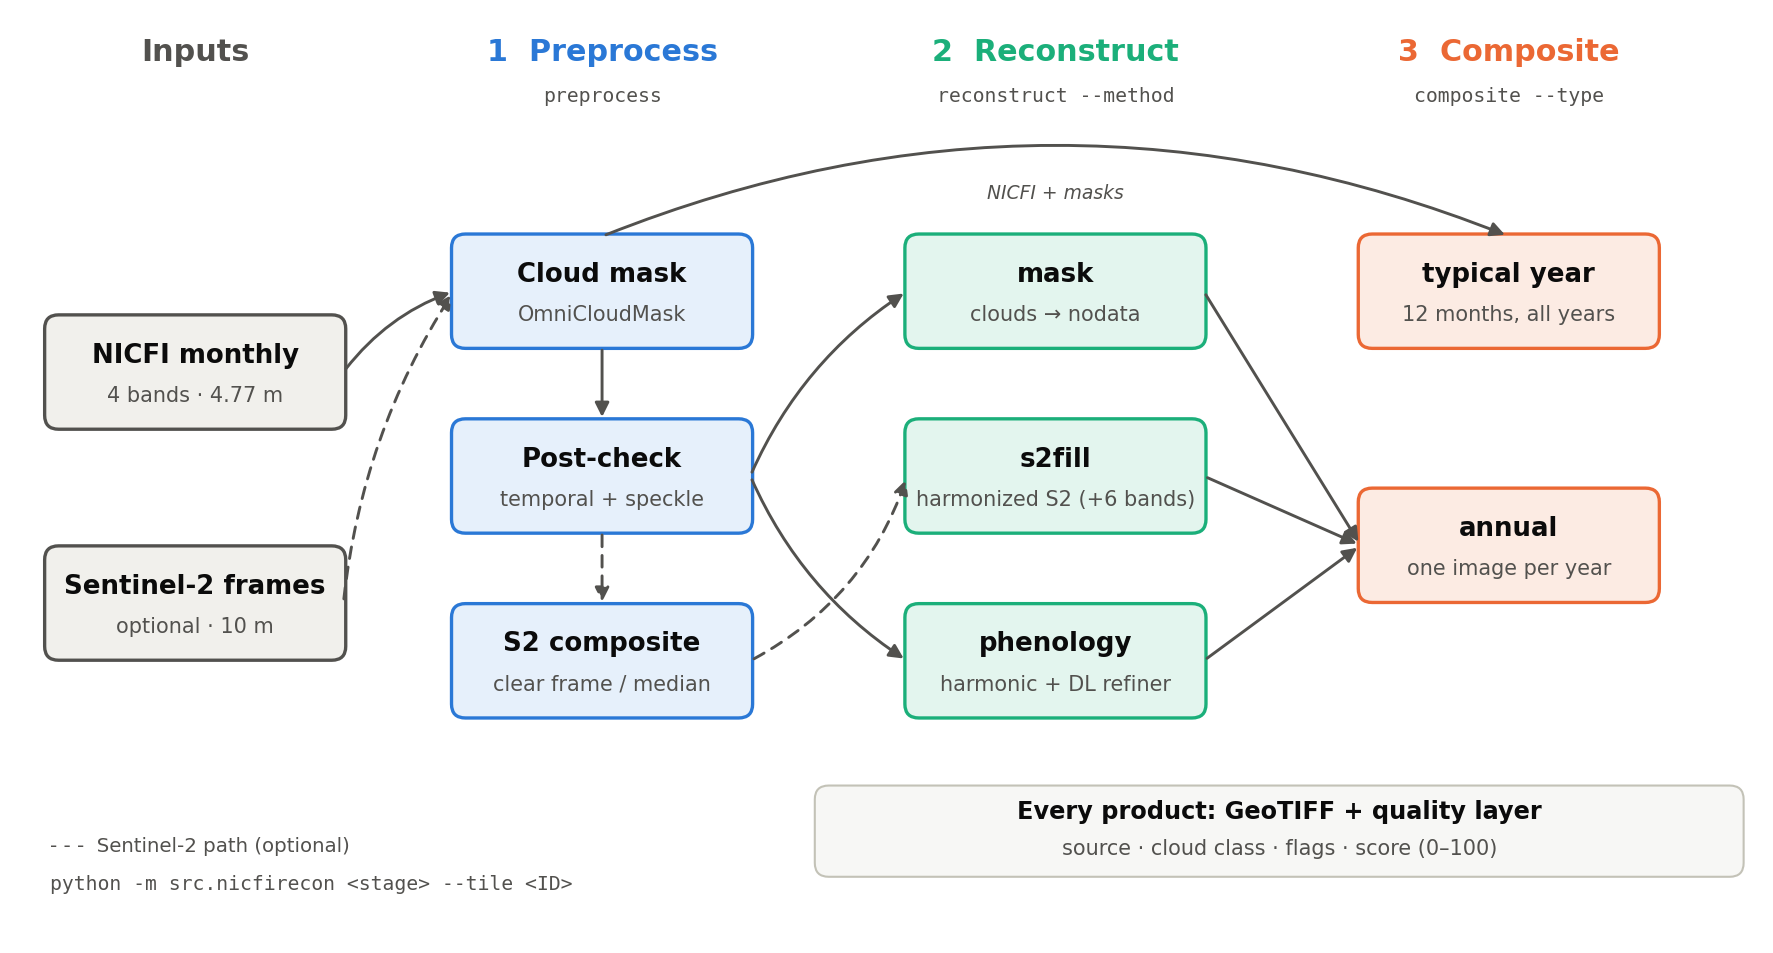
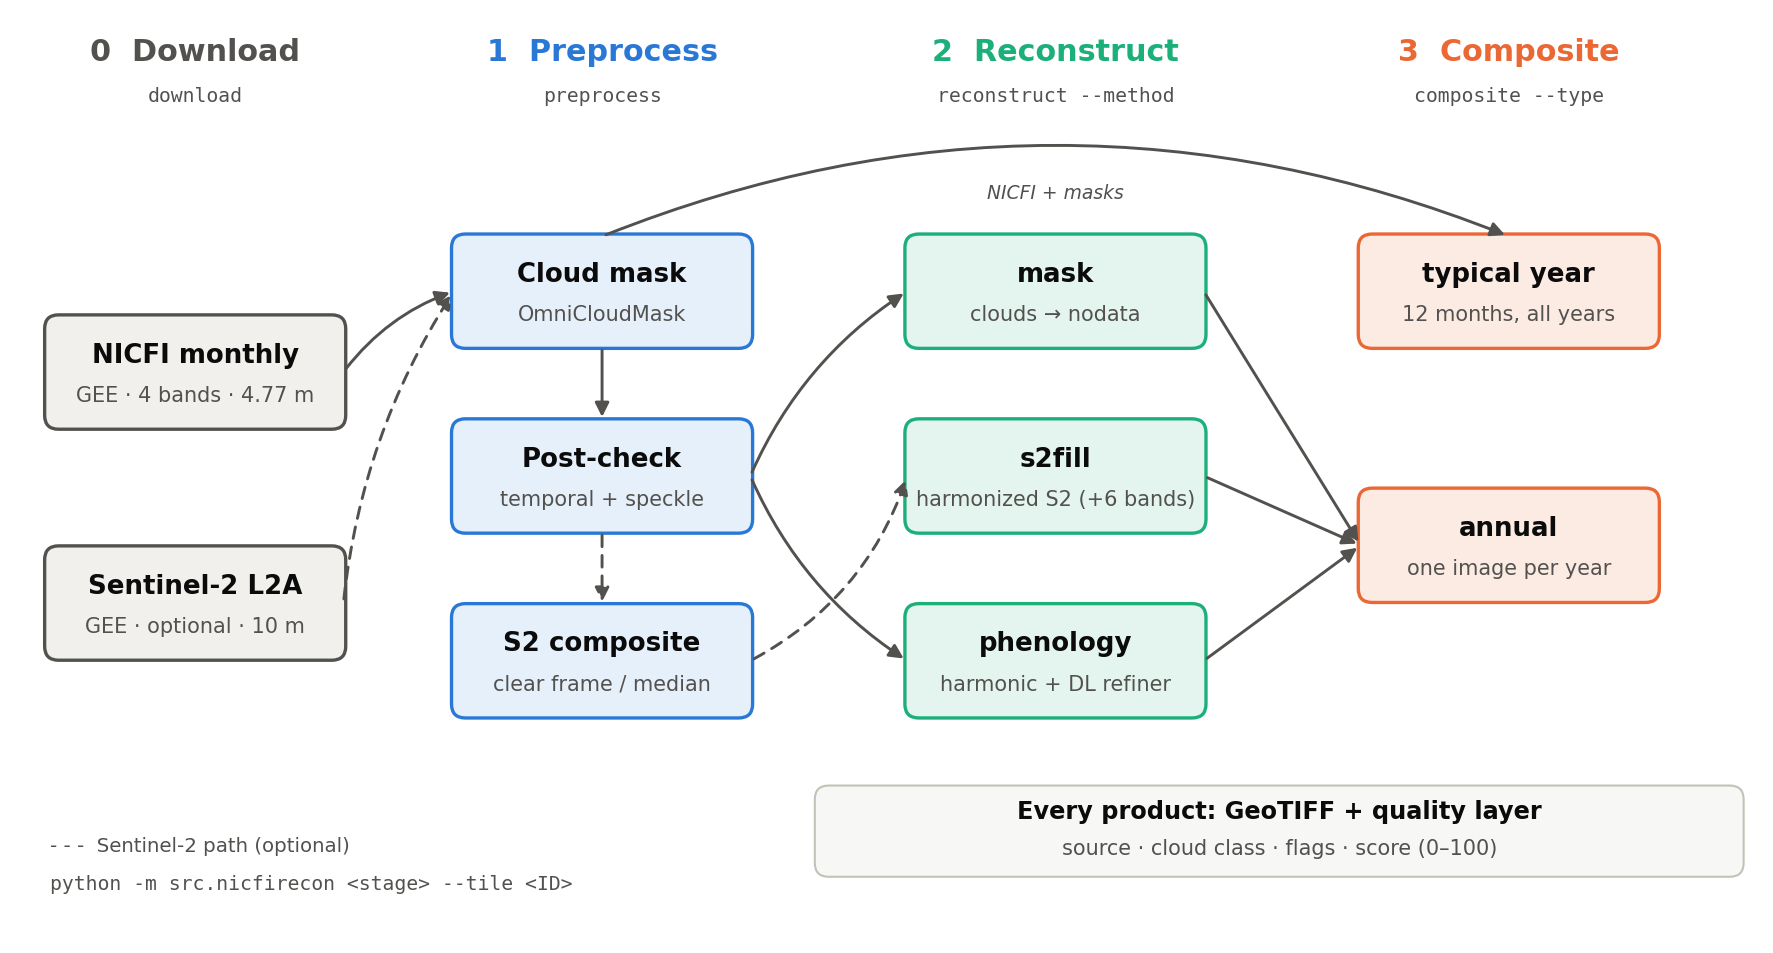
Add download stage: NICFI + raw Sentinel-2 from Earth Engine
- src/nicfirecon/download.py, `python -m src.nicfirecon download` and a
  `download:` section in run configs: NICFI monthly basemaps on the native
  4.77 m EPSG:3857 grid (region from AOI longitude) and raw unmasked
  S2_SR_HARMONIZED frames (~10 m EPSG:4326), AOI from --bbox or a polygon
  file, written in the layout the pipeline reads; chunked, parallel,
  resumable (adapted from nicfi_download.py)
- Output grids checked offline against D17's files; not yet run against GEE
- Flowchart and docs updated with stage 0

diff --git a/src/nicfirecon/download.py b/src/nicfirecon/download.py
@@ -1,0 +1,238 @@
+"""
+Stage 0, "download": fetch a tile's inputs from Google Earth Engine, in
+exactly the layout the rest of the pipeline reads (`config.py`):
+
+    <data-root>/<TILE>/<TILE>_YYYY-MM.tif   NICFI monthly basemap, 4 bands B,G,R,N
+    <data-root>/<TILE>_S2/YYYY-MM-DD.tif    raw Sentinel-2 L2A frames (optional)
+
+- NICFI: `projects/planet-nicfi/assets/basemaps/{americas,africa,asia}` (the
+  region is picked from the AOI's longitude unless given), one mosaic per
+  month, on NICFI's native grid -- EPSG:3857 at 4.777 m, snapped to the
+  global basemap grid -- so nothing is resampled.
+- Sentinel-2: `COPERNICUS/S2_SR_HARMONIZED` (no +1000 offset), every
+  acquisition day intersecting the AOI, same-day granules mosaicked, bands
+  B2..B12 (10 bands) as uint16 on an EPSG:4326 grid of 0.0000898 deg
+  (~10 m), *unmasked* -- the pipeline does its own cloud masking.
+
+Core download logic adapted from /mnt/super/code/nicfi_download.py (chunked,
+parallel `getDownloadURL` with retries, merge, skip what's already on
+disk). Differences: chunks are pixel blocks on the exact output grid (fixed
+`crs_transform` + dimensions), so the merge is a plain array copy; outputs
+are named for the pipeline; masked pixels are written as 0 (= nodata).
+
+Needs an authenticated Earth Engine account: run `earthengine authenticate`
+once, and pass `--ee-project <cloud project>`.
+"""
+import json
+import time
+from concurrent.futures import ThreadPoolExecutor, as_completed
+from pathlib import Path
+from typing import List, Optional, Sequence, Tuple
+
+import numpy as np
+import rasterio
+import requests
+from rasterio.transform import Affine
+from rasterio.warp import transform_bounds
+
+from . import config as cfg
+
+NICFI_COLLECTION = "projects/planet-nicfi/assets/basemaps/{region}"
+NICFI_BANDS = ["B", "G", "R", "N"]
+NICFI_CRS = "EPSG:3857"
+NICFI_RES = 4.777314267159966          # native basemap pixel size, m
+WEB_MERCATOR_ORIGIN = -20037508.342789244
+
+S2_COLLECTION = "COPERNICUS/S2_SR_HARMONIZED"
+S2_BANDS = ["B2", "B3", "B4", "B5", "B6", "B7", "B8", "B8A", "B11", "B12"]
+S2_CRS = "EPSG:4326"
+S2_RES = 0.000089831528412             # deg, = 10 m at the equator
+
+CHUNK_PX = 1024                        # 1024^2 x 10 bands x 2 B = 21 MB < GEE's 32 MB limit
+MAX_WORKERS = 8
+MAX_RETRIES = 3
+
+
+def init_ee(project: Optional[str]):
+    import ee
+    try:
+        ee.Initialize(project=project) if project else ee.Initialize()
+    except Exception as exc:
+        raise RuntimeError(f"Earth Engine init failed ({exc}). Run `earthengine authenticate` "
+                           "once and pass --ee-project <your cloud project>.") from exc
+    return ee
+
+
+# ------------------------------------------------------------------- AOI
+def aoi_bounds(bbox: Optional[Sequence[float]] = None, aoi: Optional[Path] = None,
+               aoi_id_field: Optional[str] = None, aoi_id=None) -> Tuple[float, float, float, float]:
+    """(min_lon, min_lat, max_lon, max_lat) from --bbox, or from a polygon
+    file (one feature, or the one whose `aoi_id_field` == `aoi_id`)."""
+    if bbox:
+        return tuple(float(v) for v in bbox)
+    if aoi is None:
+        raise ValueError("give --bbox MIN_LON MIN_LAT MAX_LON MAX_LAT or --aoi FILE")
+    import geopandas as gpd
+    gdf = gpd.read_file(aoi).to_crs("EPSG:4326")
+    if aoi_id_field:
+        gdf = gdf[gdf[aoi_id_field].astype(str) == str(aoi_id)]
+    if len(gdf) != 1:
+        raise ValueError(f"{aoi}: expected exactly one AOI feature, found {len(gdf)} "
+                         f"(use --aoi-id-field to pick one; the value is the tile ID)")
+    return tuple(gdf.geometry.iloc[0].bounds)
+
+
+def nicfi_region(bounds) -> str:
+    lon = (bounds[0] + bounds[2]) / 2
+    return "americas" if lon < -30 else "africa" if lon < 60 else "asia"
+
+
+def snapped_grid(bounds_lonlat, crs: str, res: float, origin_x=0.0, origin_y=0.0):
+    """(Affine, width, height) of a north-up grid with pixel size `res`
+    covering the AOI, its corners snapped to multiples of `res` from the
+    given origin (the global grid the source data lives on)."""
+    x0, y0, x1, y1 = (transform_bounds("EPSG:4326", crs, *bounds_lonlat) if crs != "EPSG:4326"
+                      else bounds_lonlat)
+    eps = 1e-6  # px; an AOI edge exactly on a pixel boundary must not round outward
+    c0 = np.floor((x0 - origin_x) / res + eps)
+    c1 = np.ceil((x1 - origin_x) / res - eps)
+    r0 = np.floor((origin_y - y1) / res + eps)   # rows count down from the origin
+    r1 = np.ceil((origin_y - y0) / res - eps)
+    transform = Affine(res, 0, origin_x + c0 * res, 0, -res, origin_y - r0 * res)
+    return transform, int(c1 - c0), int(r1 - r0)
+
+
+def nicfi_grid(bounds):
+    return snapped_grid(bounds, NICFI_CRS, NICFI_RES, WEB_MERCATOR_ORIGIN, -WEB_MERCATOR_ORIGIN)
+
+
+def s2_grid(bounds):
+    return snapped_grid(bounds, S2_CRS, S2_RES)
+
+
+# ------------------------------------------------------------- download core
+def _fetch(image, crs, chunk_tr, w, h, n_retries=MAX_RETRIES) -> np.ndarray:
+    params = {"crs": crs, "crs_transform": list(chunk_tr)[:6], "dimensions": f"{w}x{h}",
+              "format": "GEO_TIFF", "filePerBand": False}
+    for attempt in range(1, n_retries + 2):
+        if attempt > 1:
+            time.sleep(min(60, 10 * (attempt - 1)))
+        try:
+            url = image.getDownloadURL(params)
+            resp = requests.get(url, timeout=300)
+        except Exception as exc:  # GEE or network error: retry
+            last = exc
+            continue
+        if resp.ok:
+            with rasterio.MemoryFile(resp.content) as mf, mf.open() as src:
+                return src.read()
+        last = f"HTTP {resp.status_code}: {resp.content[:200]!r}"
+        if resp.status_code in {401, 403, 404}:
+            break
+    raise RuntimeError(f"chunk failed after {attempt} attempts: {last}")
+
+
+def download_image(image, crs: str, transform: Affine, width: int, height: int,
+                   out_path: Path, band_names: List[str], dtype="uint16", workers=MAX_WORKERS):
+    """Download `image` onto the exact grid (crs, transform, width, height)
+    in CHUNK_PX blocks, in parallel, and write one tiled GeoTIFF."""
+    out = np.zeros((len(band_names), height, width), dtype=dtype)
+    blocks = [(r, c, min(CHUNK_PX, height - r), min(CHUNK_PX, width - c))
+              for r in range(0, height, CHUNK_PX) for c in range(0, width, CHUNK_PX)]
+
+    def job(b):
+        r, c, h, w = b
+        return b, _fetch(image, crs, transform * Affine.translation(c, r), w, h)
+
+    with ThreadPoolExecutor(max_workers=workers) as ex:
+        for fut in as_completed([ex.submit(job, b) for b in blocks]):
+            (r, c, h, w), arr = fut.result()
+            out[:, r:r + h, c:c + w] = arr[:, :h, :w]
+    out_path.parent.mkdir(parents=True, exist_ok=True)
+    tmp = out_path.with_suffix(".part.tif")
+    with rasterio.open(tmp, "w", driver="GTiff", height=height, width=width, count=len(band_names),
+                       dtype=dtype, crs=crs, transform=transform, compress="deflate", tiled=True,
+                       blockxsize=256, blockysize=256) as dst:
+        dst.write(out)
+        dst.descriptions = tuple(band_names)
+    tmp.rename(out_path)   # only complete files ever carry the final name
+
+
+# ------------------------------------------------------------------ sensors
+def _month_range(start: str, end: str) -> List[str]:
+    y, m = map(int, start.split("-"))
+    ye, me = map(int, end.split("-"))
+    out = []
+    while (y, m) <= (ye, me):
+        out.append(f"{y}-{m:02d}")
+        y, m = (y + 1, 1) if m == 12 else (y, m + 1)
+    return out
+
+
+def _next_month(month: str) -> str:
+    y, m = map(int, month.split("-"))
+    return f"{y + 1}-01" if m == 12 else f"{y}-{m + 1:02d}"
+
+
+def run_download_nicfi(ee, tile: cfg.Tile, bounds, start: str, end: str,
+                       region: Optional[str] = None, log=print):
+    region = region or nicfi_region(bounds)
+    col = ee.ImageCollection(NICFI_COLLECTION.format(region=region))
+    transform, width, height = nicfi_grid(bounds)
+    log(f"  NICFI ({region}): {width}x{height} px at {NICFI_RES:.2f} m -> {tile.nicfi_dir}")
+    n_new = n_skip = n_missing = 0
+    for month in _month_range(start, end):
+        out = tile.nicfi_dir / f"{tile.tile_id}_{month}.tif"
+        if out.exists():
+            n_skip += 1
+            continue
+        monthly = col.filterDate(f"{month}-01", f"{_next_month(month)}-01")
+        if monthly.size().getInfo() == 0:
+            n_missing += 1
+            log(f"    {month}: no NICFI mosaic on GEE (pre-2020-09 basemaps are biannual)")
+            continue
+        image = monthly.mosaic().select(NICFI_BANDS).unmask(0).toUint16()
+        download_image(image, NICFI_CRS, transform, width, height, out, NICFI_BANDS)
+        n_new += 1
+        log(f"    {month}: downloaded")
+    log(f"  NICFI: {n_new} downloaded, {n_skip} already on disk, {n_missing} not available")
+
+
+def run_download_s2(ee, tile: cfg.Tile, bounds, start: str, end: str,
+                    max_cloud: float = 100.0, log=print):
+    rect = ee.Geometry.Rectangle(list(bounds), "EPSG:4326", False)
+    col = (ee.ImageCollection(S2_COLLECTION).filterBounds(rect)
+           .filterDate(f"{start}-01", f"{_next_month(end)}-01"))
+    if max_cloud < 100:
+        col = col.filter(ee.Filter.lte("CLOUDY_PIXEL_PERCENTAGE", max_cloud))
+    days = sorted(set(col.aggregate_array("system:time_start")
+                      .map(lambda t: ee.Date(t).format("YYYY-MM-dd")).getInfo()))
+    transform, width, height = s2_grid(bounds)
+    log(f"  Sentinel-2: {len(days)} acquisition days, {width}x{height} px at ~10 m -> {tile.s2_dir}")
+    n_new = 0
+    for day in days:
+        out = tile.s2_dir / f"{day}.tif"
+        if out.exists():
+            continue
+        d = ee.Date(day)
+        image = (col.filterDate(d, d.advance(1, "day")).mosaic().select(S2_BANDS)
+                 .unmask(0).toUint16())
+        download_image(image, S2_CRS, transform, width, height, out, S2_BANDS)
+        n_new += 1
+        if n_new % 20 == 0:
+            log(f"    {n_new} frames downloaded (latest {day})")
+    log(f"  Sentinel-2: {n_new} downloaded, {len(days) - n_new} already on disk")
+
+
+def run_download(tile: cfg.Tile, start: str, end: str, sensors=("nicfi", "s2"),
+                 bbox=None, aoi=None, aoi_id_field=None, ee_project=None, nicfi_region_name=None,
+                 s2_max_cloud: float = 100.0, log=print):
+    bounds = aoi_bounds(bbox, aoi, aoi_id_field, tile.tile_id)
+    log(f"  AOI (lon/lat): {', '.join(f'{v:.5f}' for v in bounds)}")
+    ee = init_ee(ee_project)
+    if "nicfi" in sensors:
+        run_download_nicfi(ee, tile, bounds, start, end, nicfi_region_name, log)
+    if "s2" in sensors:
+        run_download_s2(ee, tile, bounds, start, end, s2_max_cloud, log)
+    (tile.cache_dir / "download.json").write_text(json.dumps(
+        {"bounds_lonlat": bounds, "start": start, "end": end, "sensors": list(sensors)}, indent=1))

diff --git a/src/nicfirecon/cli.py b/src/nicfirecon/cli.py
@@ -8,6 +8,9 @@ Command line for the NICFI reconstruction pipeline. Run from the repo root:
 
 Stages (each writes its QA figures unless --no-figures):
 
+download     NICFI monthly basemaps (+ optional raw Sentinel-2 frames) from
+             Google Earth Engine for an AOI (--bbox or --aoi file), into the
+             layout every later stage reads (needs `earthengine authenticate`)
 preprocess   --steps mask,postcheck,s2composite (default: all)
              mask         OmniCloudMask ensemble per observation (GPU)
              postcheck    temporal (persistent "cloud" that looks the same
@@ -26,11 +29,18 @@ import sys
 import time
 from pathlib import Path
 
-from . import composite, config as cfg, masking, postcheck, reconstruct, s2, viz
+from . import composite, config as cfg, download, masking, postcheck, reconstruct, s2, viz
 
 
 def _log(msg):
     print(f"[{time.strftime('%H:%M:%S')}] {msg}", flush=True)
+
+
+def do_download(tile, start, end, sensors=("nicfi", "s2"), bbox=None, aoi=None, aoi_id_field=None,
+                ee_project=None, nicfi_region=None, s2_max_cloud=100.0):
+    _log(f"download {start}..{end}: {', '.join(sensors)}")
+    download.run_download(tile, start, end, sensors, bbox, Path(aoi) if aoi else None, aoi_id_field,
+                          ee_project, nicfi_region, s2_max_cloud, _log)
 
 
 def do_preprocess(tile, steps=("mask", "postcheck", "s2composite"), sensors=None, device="cuda",
@@ -86,6 +96,9 @@ def do_run(config_path: Path):
 
         tile: D17
         data_root: /mnt/warehouse/amazon        # optional, like the CLI flags
+        download:                               # optional; skip if data is on disk
+          {start: 2021-01, end: 2025-12, bbox: [-61.36, -10.28, -61.27, -10.19],
+           ee_project: my-project}
         preprocess: {device: cuda}              # or false to skip
         reconstruct:
           - {method: s2fill, add_s2_bands: true}
@@ -103,6 +116,10 @@ def do_run(config_path: Path):
         out_base=Path(c.get("out_base", cfg.PROJECT_DIR / "outputs" / cfg.PIPELINE_NAME)))
     tile = cfg.tile_from_args(tile_args)
     t0 = time.time()
+    if c.get("download"):
+        d = dict(c["download"])
+        d["start"], d["end"] = str(d["start"]), str(d["end"])
+        do_download(tile, **d)
     if c.get("preprocess", {}) is not False:
         do_preprocess(tile, **(c.get("preprocess") or {}))
     for r in c.get("reconstruct", []) or []:
@@ -116,6 +133,19 @@ def main(argv=None):
     ap = argparse.ArgumentParser(prog="python -m src.nicfirecon", description=__doc__,
                                  formatter_class=argparse.RawDescriptionHelpFormatter)
     sub = ap.add_subparsers(dest="cmd", required=True)
+
+    p = cfg.add_tile_args(sub.add_parser("download", help="NICFI (+ Sentinel-2) from Earth Engine"))
+    p.add_argument("--start", required=True, help="first month, YYYY-MM")
+    p.add_argument("--end", required=True, help="last month, YYYY-MM")
+    p.add_argument("--sensors", default="nicfi,s2", help="nicfi,s2 or nicfi")
+    p.add_argument("--bbox", nargs=4, type=float, metavar=("MIN_LON", "MIN_LAT", "MAX_LON", "MAX_LAT"))
+    p.add_argument("--aoi", type=Path, help="polygon file (GeoJSON/shapefile) instead of --bbox")
+    p.add_argument("--aoi-id-field", help="--aoi attribute whose value is the tile ID")
+    p.add_argument("--ee-project", help="Google Cloud project registered for Earth Engine")
+    p.add_argument("--nicfi-region", choices=("americas", "africa", "asia"),
+                   help="NICFI basemap (default: from the AOI's longitude)")
+    p.add_argument("--s2-max-cloud", type=float, default=100.0,
+                   help="skip S2 scenes above this CLOUDY_PIXEL_PERCENTAGE (default: keep all)")
 
     p = cfg.add_tile_args(sub.add_parser("preprocess", help="cloud masks, post-check, S2 composites"))
     p.add_argument("--steps", default="mask,postcheck,s2composite")
@@ -158,9 +188,12 @@ def main(argv=None):
     if a.cmd == "run":
         return do_run(a.config)
     tile = cfg.tile_from_args(a)
+    t0 = time.time()
+    if a.cmd == "download":
+        return do_download(tile, a.start, a.end, a.sensors.split(","), a.bbox, a.aoi, a.aoi_id_field,
+                           a.ee_project, a.nicfi_region, a.s2_max_cloud)
     _log(f"{tile.tile_id}: {len(tile.months)} NICFI months, "
          f"{len(tile.s2_frames())} S2 frames -> {tile.out_root}")
-    t0 = time.time()
     if a.cmd == "preprocess":
         do_preprocess(tile, a.steps.split(","), a.sensors.split(",") if a.sensors else None,
                       a.device, not a.no_temporal, a.min_cloud_area, a.s2_clear_thresh,

diff --git a/docs/figures/make_flowchart.py b/docs/figures/make_flowchart.py
@@ -51,13 +51,13 @@ B = lambda b: (b[0], b[1] - b[3] / 2)
 
 # columns
 xi, xp, xr, xc = 1.55, 5.05, 8.95, 12.85
-header(xi, None, "Inputs", "", "in")
+header(xi, "0", "Download", "download", "in")
 header(xp, "1", "Preprocess", "preprocess", "pre")
 header(xr, "2", "Reconstruct", "reconstruct --method", "rec")
 header(xc, "3", "Composite", "composite --type", "comp")
 
-nicfi = box(xi, 4.9, "NICFI monthly", "4 bands · 4.77 m", "in")
-sen2 = box(xi, 2.9, "Sentinel-2 frames", "optional · 10 m", "in")
+nicfi = box(xi, 4.9, "NICFI monthly", "GEE · 4 bands · 4.77 m", "in")
+sen2 = box(xi, 2.9, "Sentinel-2 L2A", "GEE · optional · 10 m", "in")
 
 mask = box(xp, 5.6, "Cloud mask", "OmniCloudMask", "pre")
 post = box(xp, 4.0, "Post-check", "temporal + speckle", "pre")

diff --git a/src/nicfirecon/config.py b/src/nicfirecon/config.py
@@ -5,7 +5,8 @@ specific to one tile: every command takes `--tile <ID>` (plus optional
 directory overrides), and the month list is discovered from the NICFI
 files actually on disk.
 
-Expected input layout (defaults; override with --nicfi-dir / --s2-dir):
+Expected input layout (defaults; override with --nicfi-dir / --s2-dir) --
+exactly what the `download` stage writes:
     <data-root>/<TILE>/        one NICFI monthly mosaic per month, any
                                filename ending in YYYY-MM.tif
     <data-root>/<TILE>_S2/     optional: raw single-date Sentinel-2 frames

diff --git a/docs/nicfirecon.md b/docs/nicfirecon.md
@@ -8,6 +8,8 @@ unmasked single-date Sentinel-2 frames.
 ![pipeline](figures/pipeline_flowchart.png)
 
 ```bash
+python -m src.nicfirecon download    --tile D99 --start 2021-01 --end 2025-12 \
+        --bbox -61.36 -10.28 -61.27 -10.19 --ee-project <gee-project>   # new tile from GEE
 python -m src.nicfirecon preprocess  --tile D17          # masks, post-check, S2 composites
 python -m src.nicfirecon reconstruct --tile D17 --method s2fill --add-s2-bands
 python -m src.nicfirecon reconstruct --tile D17 --method phenology
@@ -19,6 +21,7 @@ python -m src.nicfirecon <stage> --help                  # every option
 
 | stage | options | what it does |
 |---|---|---|
+| `download` | `--start/--end YYYY-MM`, `--bbox` or `--aoi FILE [--aoi-id-field]`, `--sensors nicfi,s2`, `--ee-project`, `--nicfi-region`, `--s2-max-cloud` | NICFI monthly basemaps (region from the AOI's longitude) on their native 4.77 m EPSG:3857 grid, plus raw unmasked Sentinel-2 L2A frames (same-day granules mosaicked, 10 bands, ~10 m EPSG:4326), from Google Earth Engine, into exactly the input layout below; chunked, parallel, resumable. Adapted from `/mnt/super/code/nicfi_download.py`. Needs `earthengine authenticate` once. *Not yet run against GEE; its output grids were checked offline to match D17's existing files.* |
 | `preprocess` | `--steps mask,postcheck,s2composite`, `--sensors nicfi,s2`, `--no-temporal`, `--min-cloud-area`, `--s2-clear-thresh`, `--s2-buffer-px` | OmniCloudMask ensemble per observation (both sensors, GPU, resumable) → temporal + spatial post-check → monthly clear S2 composite. S2 steps are skipped if the tile has no S2 frames. |
 | `reconstruct` | `--method mask` | contaminated + nodata NICFI pixels set to nodata; the conservative product |
 | | `--method s2fill [--add-s2-bands]` | contaminated pixels replaced by same-month harmonized S2; `--add-s2-bands` appends S2 B5/B6/B7/B8A/B11/B12 (10 bands) |

diff --git a/README.md b/README.md
@@ -54,7 +54,8 @@ docs/           detailed write-ups: nicfirecon.md, vietnam.md, amazon.md, super-
 
 **The general pipeline, `src/nicfirecon/`** (`python -m src.nicfirecon`),
 is the recommended entry point for any new tile. It packages everything
-above and the later Sentinel-2 work into three stages with options --
+above and the later Sentinel-2 work into stages with options --
+**download** (NICFI + raw Sentinel-2 from Earth Engine for any AOI),
 **preprocess** (OmniCloudMask on NICFI and raw Sentinel-2, a temporal +
 spatial post-check of both mask series, monthly clear S2 composites),
 **reconstruct** (`--method mask` | `s2fill [--add-s2-bands]` | `phenology`)
